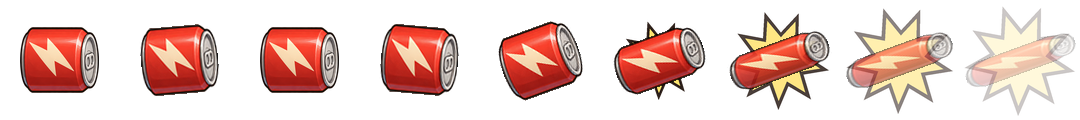
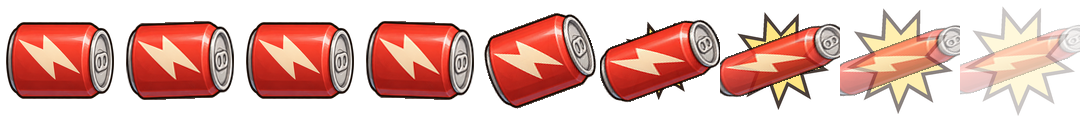
Can Tosser: flying can matches in-cup size, no flattening
Claude-Session: https://claude.ai/code/session_019aYuPSmDStWHRUCSamkHbW

diff --git a/art/can-tosser/gen_can_anim.py b/art/can-tosser/gen_can_anim.py
@@ -88,8 +88,11 @@ json.dump({'frames': jf, 'meta': meta}, open(os.path.join(OUT, 'tower.dart.json'
 # ---- shot: flying can + hit splat ----
 SW = 120
 can = rig.P['can']
-cs = rig.CAN_SC * rig.S  # same px scale as in the tower frames
-can_s = can.resize((round(can.width * cs), round(can.height * cs * rig.CAN_SQUASH)), Image.LANCZOS).rotate(-90, expand=True, resample=Image.BICUBIC)  # lid points right (+x)
+# Same on-screen size as the can sitting in the cup: the tower sheet is drawn at 46/365 px per px, this sheet at 13/SW.
+FLY_K = (46 / FW) / (13 / SW)
+FLY_SQUASH = 0.92   # a can is taller than wide; only a hint of the cartoon squash so it never looks flattened in flight
+cs = rig.CAN_SC * rig.S * FLY_K
+can_s = can.resize((round(can.width * cs), round(can.height * cs * FLY_SQUASH)), Image.LANCZOS).rotate(-90, expand=True, resample=Image.BICUBIC)  # lid points right (+x)
 
 def on_canvas(img, rot=0, sx=1, sy=1, alpha=1.0, dx=0, dy=0, size=SW):
     c = Image.new('RGBA', (size, size), (0, 0, 0, 0))
@@ -117,7 +120,7 @@ def star(size, r_out, r_in, pts, col, ink, alpha=1.0, rot=0):
 
 INK = (43, 30, 24)
 shot_frames, shot_dur, shot_tag = [], [], []
-for rot, sx, sy in [(0, 1, 1), (5, .98, 1.03), (0, 1, 1), (-5, .98, 1.03)]:
+for rot, sx, sy in [(0, 1, 1), (2, 1, 1), (0, 1, 1), (-2, 1, 1)]:
     shot_frames.append(on_canvas(can_s, rot, sx, sy)); shot_dur.append(90); shot_tag.append('fly')
 hit = [  # (star r_out, alpha, can sx, sy, can alpha)
     (24, 1.0, 1.0, 1.0, 1.0), (40, 1.0, 1.15, .75, 1.0), (50, .85, 1.3, .55, .9), (54, .55, 1.4, .45, .55), (56, .25, 1.45, .4, .25)]
